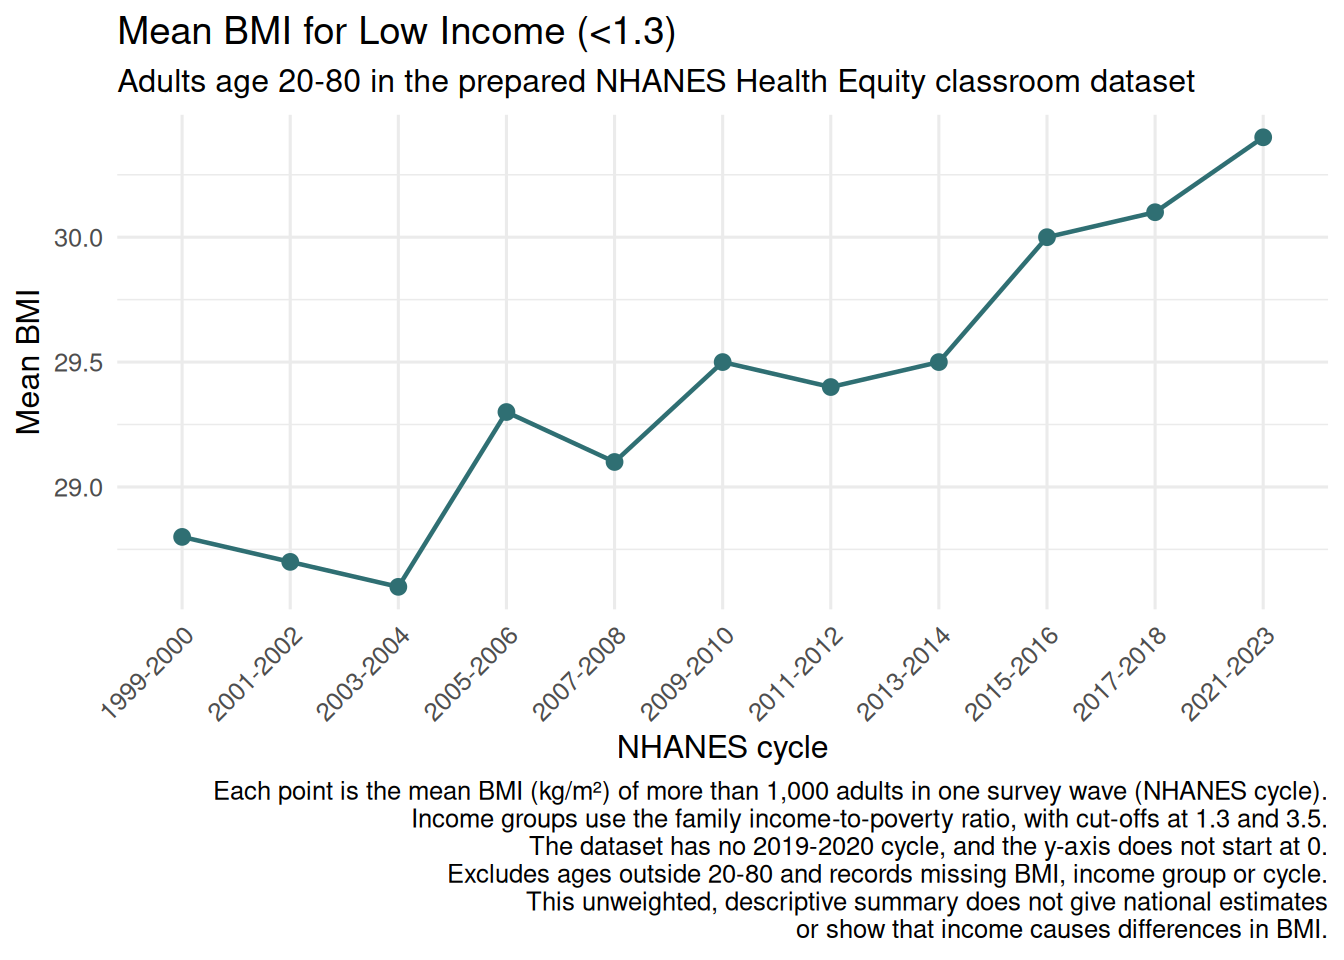
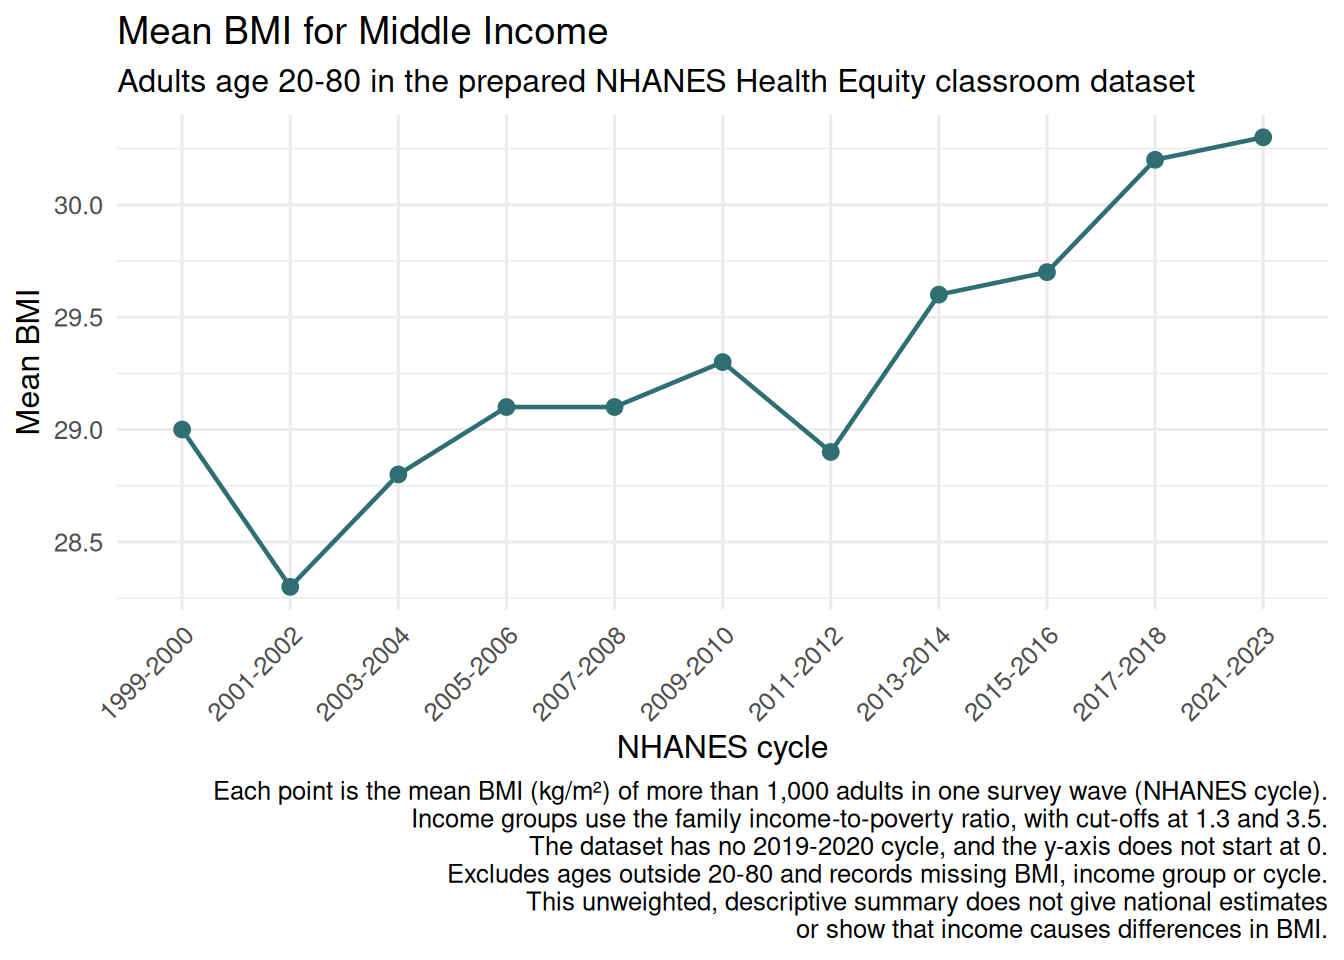
A7: submit Middle Income view and update notes

diff --git a/assignments/assignment07-dashboard/submission/ai-use-note.md b/assignments/assignment07-dashboard/submission/ai-use-note.md
@@ -26,7 +26,7 @@ Tool: Claude, in one claude.ai chat. I shared the A7 brief, excerpts from the We
   - Verified: the control values and fallback order with `sort(unique(na.omit(nhanes$IncomeGroup)))` in R; the Test Result, Limitation and Privacy Check sections against the separate files.
 - **`before-after-text.md`**
   - AI prompt (condensed): "Give me candidate text changes for this audience, then draft the dash04 before-and-after file for the one I pick."
-  - Verified: the original text matches the starter; the revised text matches the caption in `dashboard.qmd`; `git diff` against the starter shows changes only to the caption and its comments.
+  - Verified: the original text matches the starter; the revised text matches the caption in `dashboard.qmd`; `git diff` against the starter shows changes only to the caption, its comments and the `selected_income` value.
 - **`testing-log.md`**
   - AI prompt (condensed): "Draft a testing log for the dash05 six-step routine."
   - Verified: I filled in the titles, mean BMI values and smallest n from my own renders of all three groups.
@@ -47,14 +47,15 @@ Claude reviewed the brief and Week 8 pages, flagged the required structures and 
 - I chose the caption from three candidate changes and added a plain-language meaning for "NHANES cycle" (survey wave), adapted from dash04's label example.
 - I kept the caption right-aligned, ggplot2's default, rather than add a formatting line, so the change stays text-only.
 - I filled in the testing log from my own renders and edited the sentence in the privacy check on what Claude saw.
+- I chose Middle Income as the submitted group instead of the starter’s default, Low Income, and reworded the dashboard question to match.
 - I kept AI-drafted wording only where it matched my rendered output and the A7 brief.
 
 ## How I verified the result
 
 - **Caption claims:** in R, `count(IncomeGroup, Cycle)` for adults aged 20 to 80 with BMI, income group and cycle present gave 11 cycles per group, a smallest n of 1,089, and no 2019-2020 cycle.
 - **Control:** `sort(unique(na.omit(nhanes$IncomeGroup)))` listed the three values in the fallback order.
-- **Renders:** I rendered all three groups and checked the title, table, plot and six caption lines each time, with no warnings. I then reset to Low Income and confirmed it with `git status`.
-- **Analytic logic:** `git diff` against the starter showed changes only inside the Visualization chunk.
+- **Renders:** I rendered all three groups and checked the title, table, plot and six caption lines each time, with no warnings. I then set the submitted value to Middle Income and rendered again.
+- **Analytic logic:** `git diff` against the starter showed changes only to the caption, its comments and the `selected_income` value.
 - **Fresh Codespace:** the submitted file rendered without errors in a new Codespace.
 - **Wording:** I checked that the caption and notes match the output and make no causal, population or row-level claims, as A7's AI-use expectations require.
 - **Privacy:** no row-level data went to AI. Claude saw only the code, excerpts from the course pages and my rendered aggregate outputs.

diff --git a/assignments/assignment07-dashboard/submission/dashboard-adaptation-note.md b/assignments/assignment07-dashboard/submission/dashboard-adaptation-note.md
@@ -3,11 +3,11 @@
 
 ## Audience
 
-A public-health analyst preparing a short equity briefing for program managers who are not data specialists. The analyst will copy the dashboard figure into briefing slides, where it will be read without the rest of the dashboard page.
+A public-health analyst preparing a short equity briefing for program managers who are not data specialists. The analyst will copy the dashboard figure into briefing slides, where it will be read without the rest of the dashboard page. The briefing focuses on middle-income adults, the group just above the low-income cut-off.
 
 ## Dashboard Question
 
-For adults aged 20 to 80 in one income group, how does mean BMI differ across NHANES cycles in the classroom dataset?
+How has average BMI among middle-income adults aged 20 to 80 changed across NHANES survey waves in the classroom dataset?
 
 ## Control And Visualization
 
@@ -25,7 +25,7 @@ For adults aged 20 to 80 in one income group, how does mean BMI differ across NH
 
 ## Test Result
 
-On 2026-11-08, I rendered the dashboard from the repository root with `quarto render assignments/assignment07-dashboard/submission/dashboard.qmd` for `"Low Income (<1.3)"`, `"Middle Income"` and `"High Income (>3.5)"`. Each render finished with no errors or warnings. The title, table and plot updated each time, and the six-line caption stayed in full and held true for every group. The submitted file is set back to `"Low Income (<1.3)"`, and it also rendered in a fresh Codespace. Full results are in `testing-log.md`.
+On 2026-11-08, I rendered the dashboard from the repository root with `quarto render assignments/assignment07-dashboard/submission/dashboard.qmd` for `"Low Income (<1.3)"`, `"Middle Income"` and `"High Income (>3.5)"`. Each render finished with no errors or warnings. The title, table and plot updated each time, and the six-line caption stayed in full and held true for every group. The submitted file is set to `"High Income"`, and it rendered in a fresh Codespace. Full results are in `testing-log.md`.
 
 ## Limitation
 

diff --git a/assignments/assignment07-dashboard/submission/testing-log.md b/assignments/assignment07-dashboard/submission/testing-log.md
@@ -3,7 +3,7 @@
 - **Date and place:** 2026-11-08, in my GitHub Codespace.
 - **Command:** from the repository root, `quarto render assignments/assignment07-dashboard/submission/dashboard.qmd`, then opened `dashboard.html` from the Explorer.
 - **Values tried and results:** each render finished with no errors or warnings. The title, table and plot updated each time. The subtitle still named the dataset, and the caption's six lines stayed in full and held true: 11 cycles, no 2019-2020 cycle, every n above 1,000, and a y-axis that does not start at 0.
-  - `"Low Income (<1.3)"`: title "Mean BMI for Low Income (<1.3)"; mean BMI 28.8 in 1999-2000 and 30.4 in 2021-2023; smallest n 1,089.
+  - `"Low Income (<1.3)"`: title "Mean BMI for Low Income (<1.3)" (starter default); mean BMI 28.8 in 1999-2000 and 30.4 in 2021-2023; smallest n 1,089.
   - `"Middle Income"`: title "Mean BMI for Middle Income"; mean BMI 29.0 in 1999-2000 and 30.3 in 2021-2023; smallest n 1,327.
   - `"High Income (>3.5)"`: title "Mean BMI for High Income (>3.5)"; mean BMI 27.9 in 1999-2000 and 29.2 in 2021-2023; smallest n 1,123.
-- **Reset:** set the value back to `"Low Income (<1.3)"` and rendered again, so the submitted file, HTML and preview match.
+- **Submitted value:** set to "Middle Income" and rendered again, so the submitted file, HTML and preview match.

diff --git a/assignments/assignment07-dashboard/submission/before-after-text.md b/assignments/assignment07-dashboard/submission/before-after-text.md
@@ -25,4 +25,4 @@ The analyst will paste the figure into slides without the rest of the page, so t
 
 ## Analytic logic
 
-No analytic logic changed: the only edits to `dashboard.qmd` are the caption text and the R comments recording how it was drafted and checked, so the filters, summary, plotted values and control are the same as in the starter.
+No analytic logic changed: the only edits to `dashboard.qmd` are the caption text, the R comments recording how it was drafted and checked, and the chosen `selected_income` value, so the filters, summary and plotting code are the same as in the starter.
